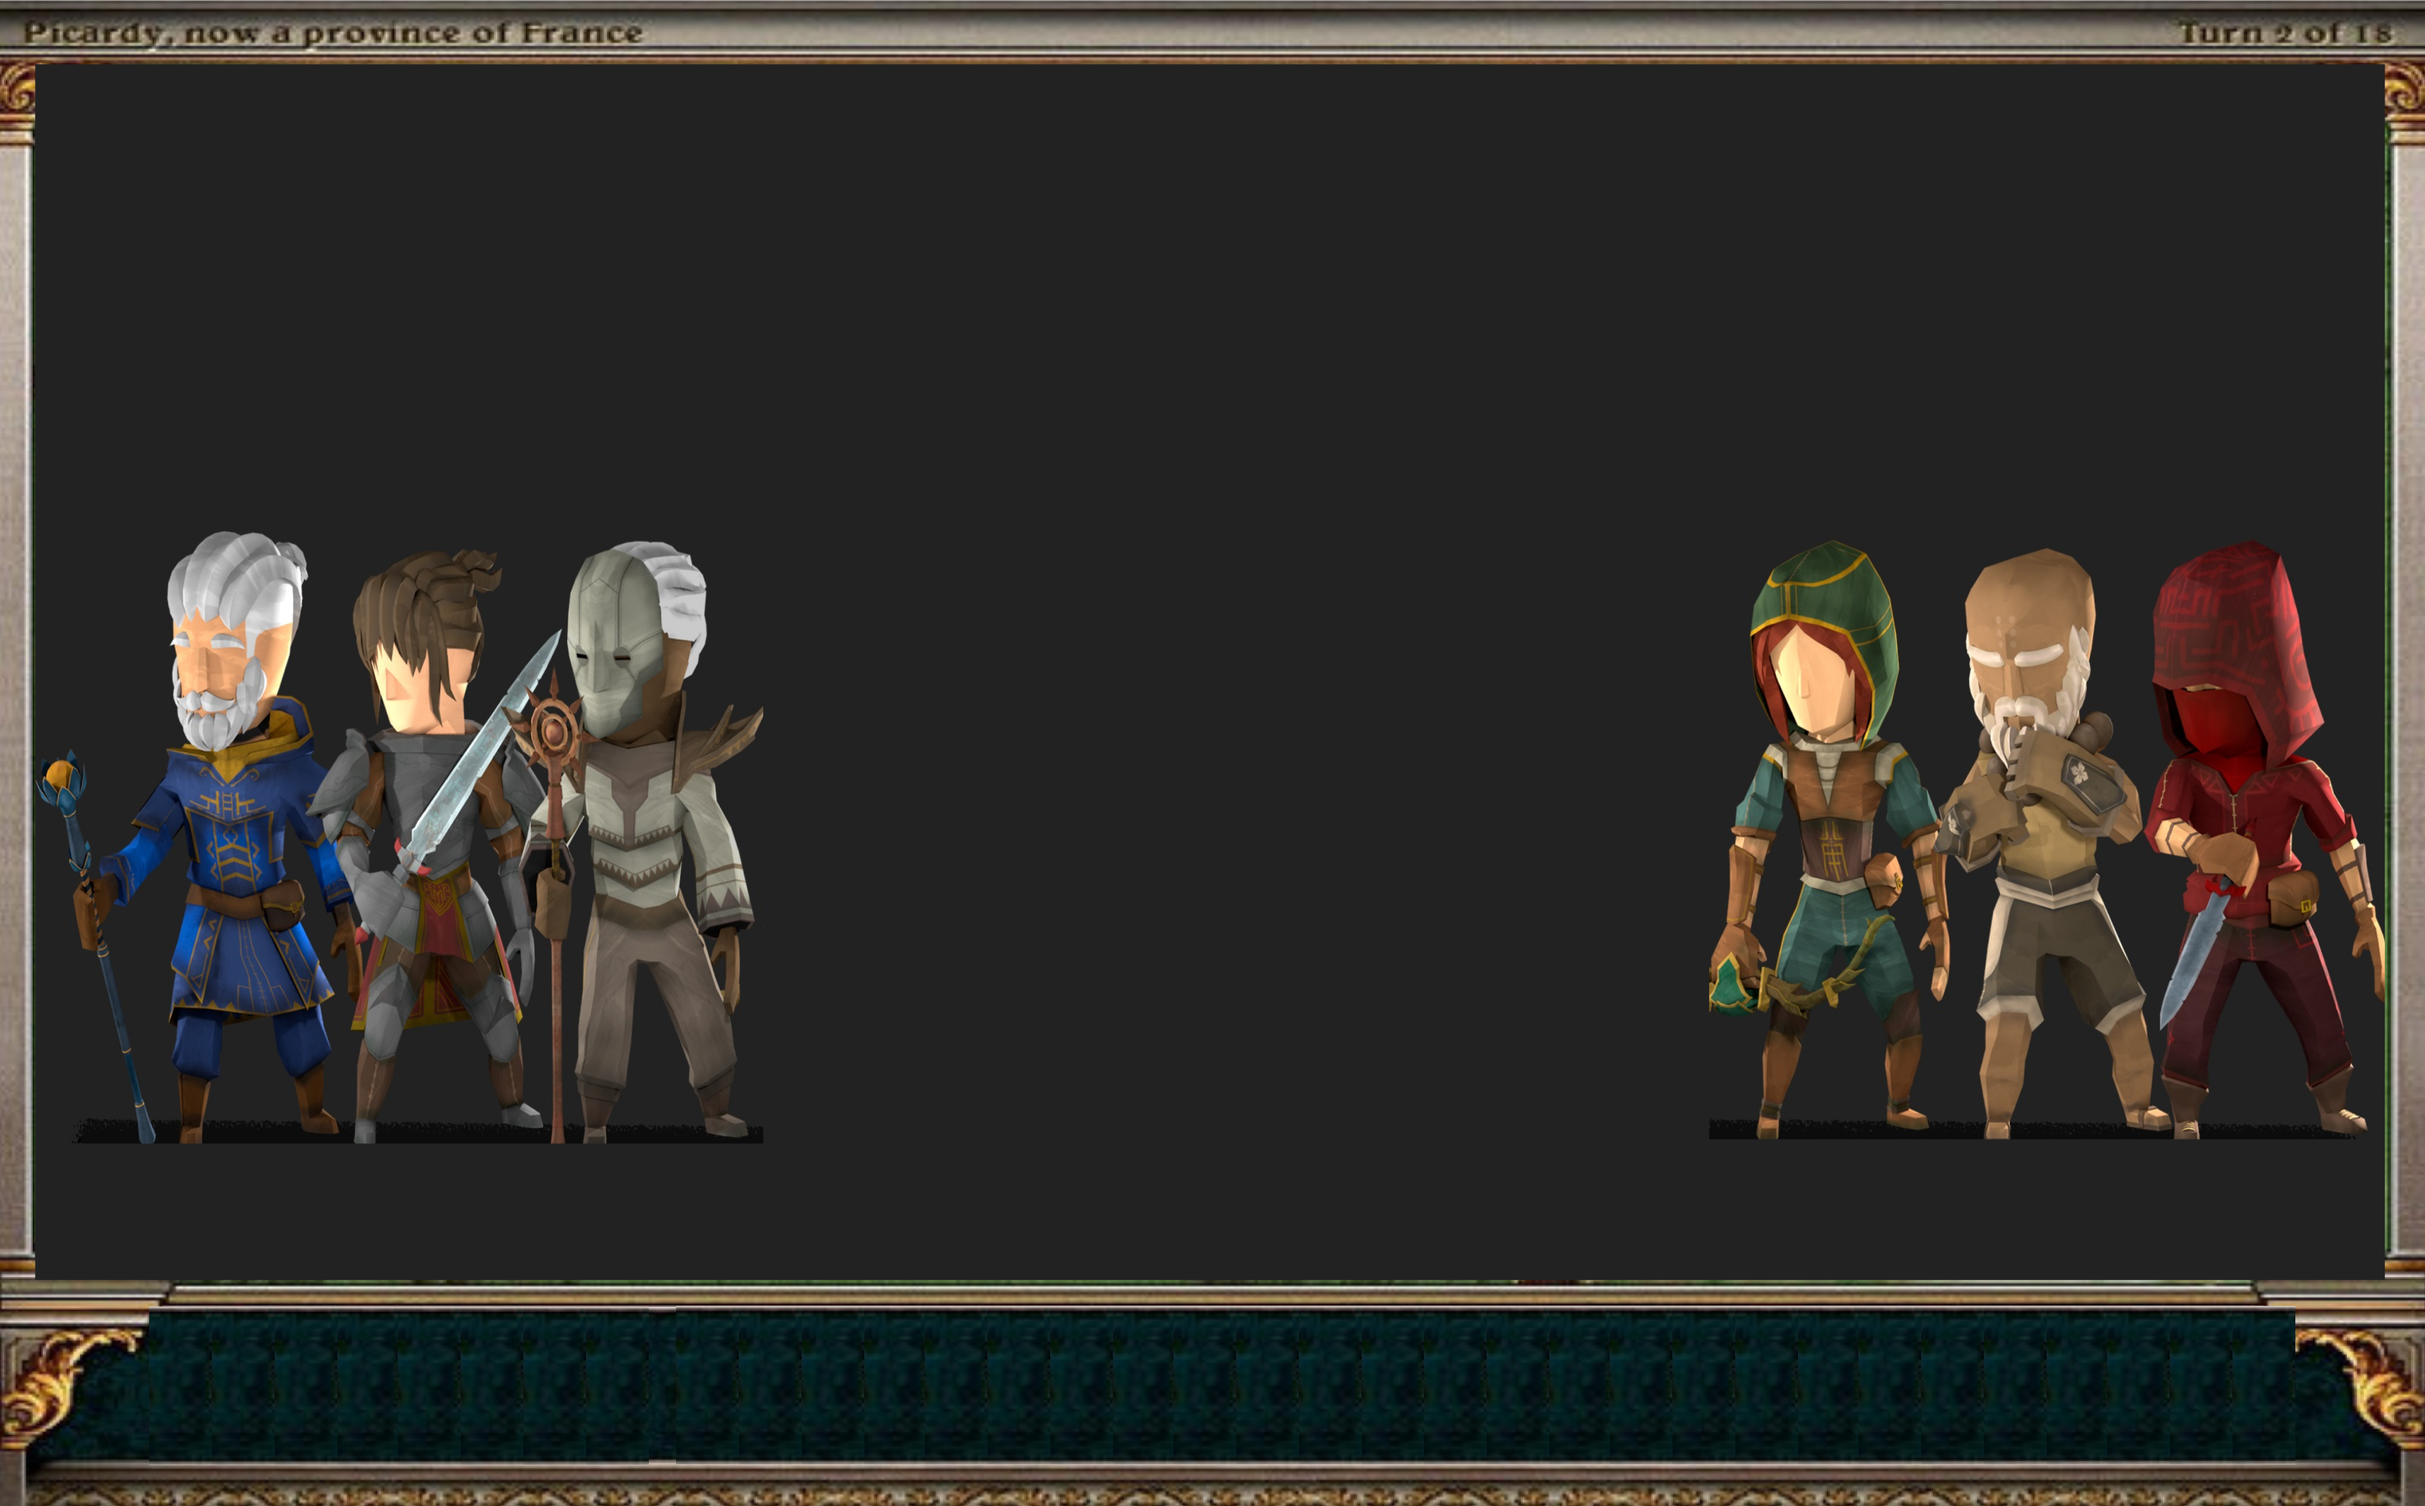
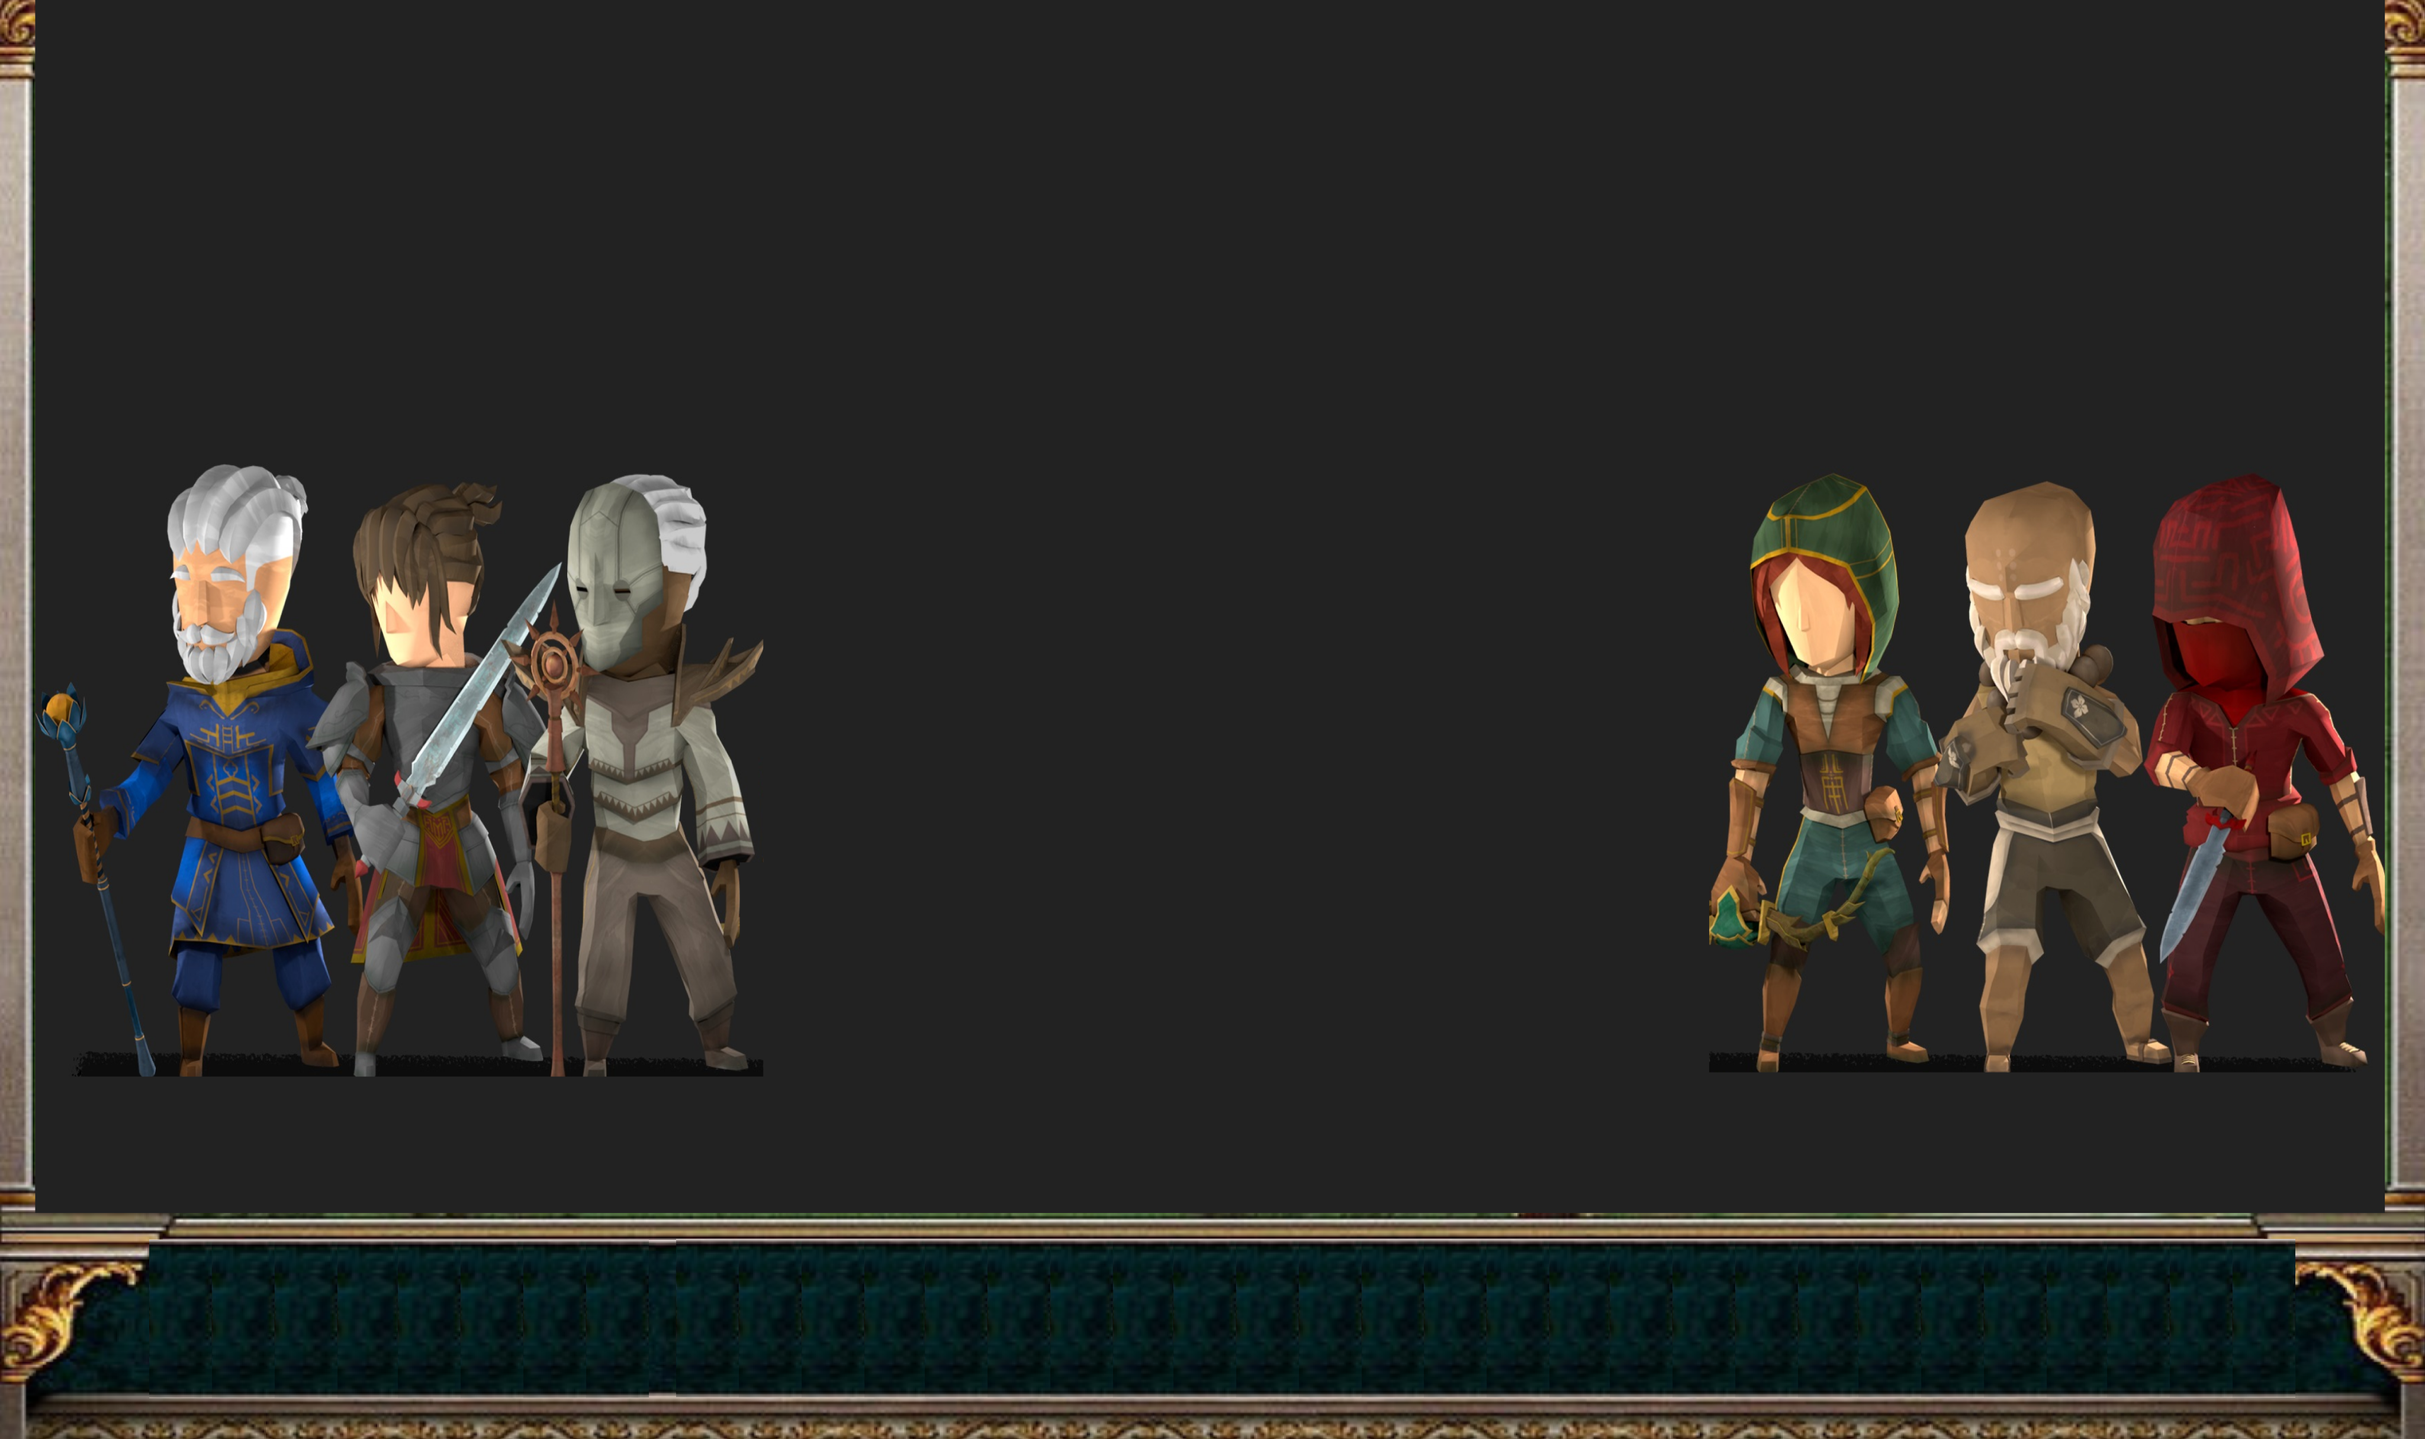
ui Fadding Effect and applied toIndex.html

diff --git a/public/index.html b/public/index.html
@@ -9,19 +9,59 @@
       content="Ironhack Miami 2021 Group Project - Team Coffee For Harambe"
     />
     <link rel="stylesheet" type="text/css" href="/styles/main.css" />
+    <link rel="stylesheet" type="text/css" href="/styles/startmenu.css" />
     <title>Coffee for Harambe</title>
   </head>
   <body>
     <canvas id="canvas"></canvas>
 
-    <div id="ui">
-      <!-- <button>Hi there</button> -->
+    <div id="ui" class="startmenu">
+      <div id="main-page">
+        <!-- top section is hidden at the start menu -->
+        <div id="top-section">
+          <div id="stats-alies"></div>
+
+          <div id="stats-enemy"></div>
+        </div>
+        <!-- top section is hidden at the start menu -->
+
+        <!-- Characters main page -->
+        <div id="characters-screen">
+          <!-- Start menu -->
+          <div id="start-menu">
+            <div id="game-title">
+              <!-- <img src="#" , alt="title-of-the-game" /> -->
+            </div>
+
+            <div>
+              <a class="buttons-start-menu" type="submit" id="start">
+                <img src="/images/play-button.png" , alt="Start-button" />
+              </a>
+            </div>
+
+            <div>
+              <a href="#" class="buttons-start-menu" type="submit" id="new">
+                <img src="/images/NewButton.png" , alt="Instructions" />
+              </a>
+            </div>
+            <div>
+              <a href="#" class="buttons-start-menu" type="submit" id="Options">
+                <img src="/images/OptionsButton.png" , alt="Sound" />
+              </a>
+            </div>
+          </div>
+          <!-- End of Start menu -->
+
+          <!-- End of Characters main page -->
+        </div>
+      </div>
     </div>
 
     <div id="debug"></div>
     <div id="debugjson"></div>
 
     <noscript>You need to enable JavaScript to run this app.</noscript>
+    <script type="module" src="/dist/client/ui/startmenu.js"></script>
     <script type="module" src="/dist/client/index.js"></script>
     <!--
       This HTML file is a template.

diff --git a/public/uicomponents/startmenu.html b/public/uicomponents/startmenu.html
@@ -20,7 +20,7 @@
     <div id="ui" class="startmenu">
       <div id="main-page">
         <!-- top section is hidden at the start menu -->
-        <div class="top-section">
+        <div id="top-section">
           <div id="stats-alies"></div>
 
           <div id="stats-enemy"></div>
@@ -36,20 +36,20 @@
             </div>
 
             <div>
-              <button class="buttons-start-menu" type="submit" id="start">
+              <a class="buttons-start-menu" type="submit" id="start">
                 <img src="/images/play-button.png" , alt="Start-button" />
-              </button>
+              </a>
             </div>
 
             <div>
-              <button class="buttons-start-menu" type="submit" id="New">
+              <a href="#" class="buttons-start-menu" type="submit" id="new">
                 <img src="/images/NewButton.png" , alt="Instructions" />
-              </button>
+              </a>
             </div>
             <div>
-              <button class="buttons-start-menu" type="submit" id="Options">
+              <a href="#" class="buttons-start-menu" type="submit" id="Options">
                 <img src="/images/OptionsButton.png" , alt="Sound" />
-              </button>
+              </a>
             </div>
           </div>
           <!-- End of Start menu -->

diff --git a/public/styles/startmenu.css b/public/styles/startmenu.css
@@ -4,20 +4,23 @@
   padding: 0;
   background-color: lightgray;
   background-image: url("/images/background.png");
-  background-size: cover;
+  background-color: black;
+  background-size: contain;
+  background-position: center;
   background-repeat: no-repeat;
+  height: 100vh;
 }
 
-.top-section {
+#top-section {
   width: 100vw;
   background-color: #222222;
-  display: none;
   display: flex;
   justify-content: space-between;
 }
 
 #stats-enemy,
 #stats-alies {
+  display: none;
   background-color: aqua;
   width: 17vw;
   height: 13vh;
@@ -39,12 +42,12 @@
 #start-menu {
   width: 25vw;
   height: 65vh;
-  background-color: rgb(0, 0, 0);
+  background-color: rgba(0, 0, 0, 0.5);
   display: flex;
   flex-direction: column;
   justify-content: center;
   align-items: center;
-  margin-top: 27vh;
+  margin-top: 37vh;
   margin-left: 4vw;
 }
 
@@ -59,7 +62,7 @@
   padding-bottom: 14vh;
   width: 200px;
   height: 100px;
-  background-image: url("/images/Title.png");
+  background-image: url("/images/logo.png");
   background-size: contain;
   background-repeat: no-repeat;
 }

diff --git a/src/client/ui/startmenu.js b/src/client/ui/startmenu.js
@@ -1,5 +1,10 @@
-document.querySelector("#start").onclick = hideElement
-
 function hideElement() {
-  document.querySelector("#ui").toggleClass("ui.hide")
+  let element = document.getElementById("ui")
+  debugger
+  element.classList.toggle("hide")
+  // document.querySelector("#ui").toggleClass("ui.hide")
 }
+
+document.querySelector("#start").addEventListener("click", hideElement)
+document.querySelector("#new").addEventListener("click", hideElement)
+document.querySelector("#Options").addEventListener("click", hideElement)
